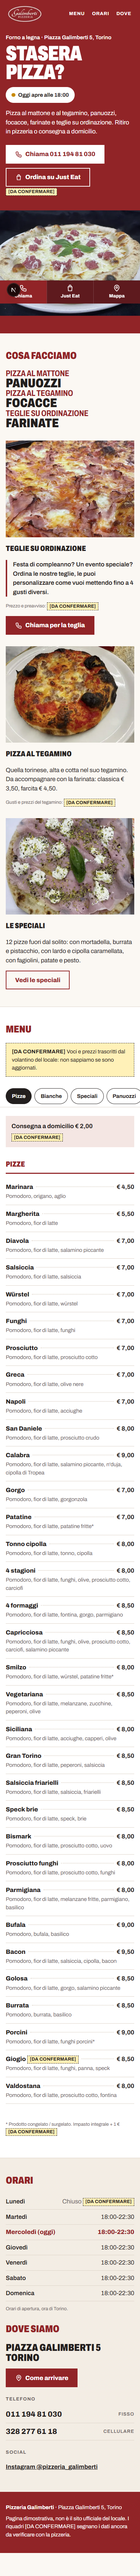
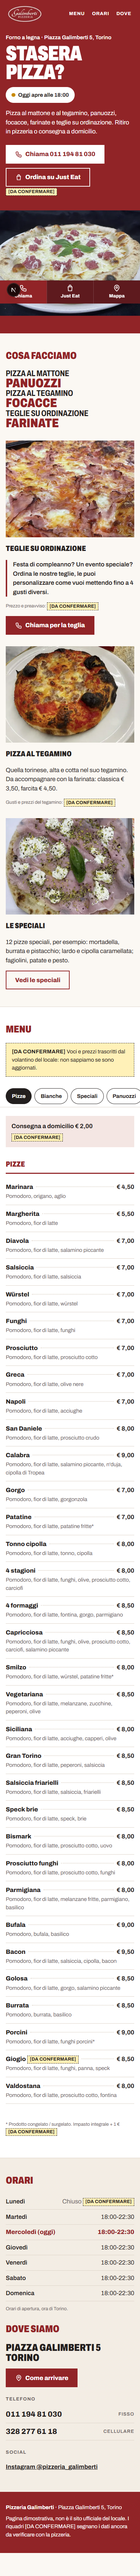
Verifica e consegna: correzioni, README, DECISIONI, RAPPORTO, VERIFICA
- Gerarchia dell'elenco del volantino, testo 'Le speciali', pagina 404 in italiano
- Credenziali Upstash anche con prefisso del marketplace
- Hosting e costi verificati sulla documentazione corrente (Vercel, Upstash, Cloudflare)

Changed region(s): [[0.0308, 0.1245, 0.4615, 0.1868], [0.2154, 0.3425, 0.4615, 0.3736]]

diff --git a/lib/store.ts b/lib/store.ts
@@ -47,7 +47,18 @@ function credenzialiRedis() {
   const env = process.env;
   const url = env.KV_REST_API_URL || env.UPSTASH_REDIS_REST_URL;
   const token = env.KV_REST_API_TOKEN || env.UPSTASH_REDIS_REST_TOKEN;
-  return url && token ? { url, token } : null;
+  if (url && token) return { url, token };
+
+  // Con più database sullo stesso account il marketplace mette davanti il
+  // nome dello store (NOME_KV_REST_API_URL): si cercano per come finiscono.
+  // "KV_REST_API_READ_ONLY_TOKEN" non finisce per "KV_REST_API_TOKEN".
+  const cerca = (finali: string[]) =>
+    Object.entries(env).find(([k, v]) => v && finali.some((f) => k.endsWith(f)))?.[1];
+  const altroUrl = cerca(["KV_REST_API_URL", "REDIS_REST_URL"]);
+  const altroToken = cerca(["KV_REST_API_TOKEN", "REDIS_REST_TOKEN"]);
+  return altroUrl?.startsWith("https://") && altroToken
+    ? { url: altroUrl, token: altroToken }
+    : null;
 }
 
 function driverRedis(credenziali: { url: string; token: string }): Driver {

diff --git a/app/page.tsx b/app/page.tsx
@@ -210,9 +210,9 @@ export default async function Home() {
                 />
                 <h3>Le speciali</h3>
                 <p>
-                  {speciali ? `${speciali.voci.length} pizze` : "Pizze"} fuori dal solito: con
-                  mortadella, burrata e pistacchio, con lardo e cipolla caramellata, con
-                  fagiolini, patate e pesto.
+                  {speciali ? `${speciali.voci.length} pizze` : "Pizze"} speciali, per esempio:
+                  mortadella, burrata e pistacchio; lardo e cipolla caramellata; fagiolini,
+                  patate e pesto.
                 </p>
                 <p>
                   <a className="bottone bottone-chiaro" href="#cat-speciali">

diff --git a/app/globals.css b/app/globals.css
@@ -363,11 +363,13 @@ a {
 .elenco-volantino li {
   font-size: clamp(1.75rem, 9vw, 3.5rem);
   font-weight: 900;
+  color: var(--rosso);
 }
+/* Come nel volantino: righe sottili e righe piene alternate. */
 .elenco-volantino li:nth-child(odd) {
   font-size: clamp(1.25rem, 6vw, 2.25rem);
   font-weight: 700;
-  color: var(--rosso);
+  color: var(--inchiostro);
 }
 
 .schede {

diff --git a/app/not-found.tsx b/app/not-found.tsx
@@ -1,0 +1,12 @@
+export default function NonTrovata() {
+  return (
+    <main className="contenitore sezione">
+      <h1 className="titolo-sezione">Pagina non trovata</h1>
+      <p>
+        <a className="bottone bottone-rosso" href="/">
+          Torna alla pizzeria
+        </a>
+      </p>
+    </main>
+  );
+}

diff --git a/RAPPORTO.md b/RAPPORTO.md
@@ -1,0 +1,98 @@
+# RAPPORTO – Pizzeria Galimberti (28/10/2026)
+
+## Cosa è pronto
+- **Sito pubblico** (Next.js), provato in locale a 390, 768 e 1280 px: stato "aperto adesso",
+  Chiama / Just Eat / Mappa a un tocco, menu completo dal volantino con schede, orari, dove
+  siamo. Commit: `Sito pubblico Next.js…`.
+- **Admin `/admin`** per il titolare, pensata per il telefono: avviso in cima, orari, ferie e
+  chiusure, consegna sì/no, voci e prezzi del menu, registro con Annulla. Nessun dato personale.
+  Commit separato: `Admin del titolare…`. Provata end-to-end in locale (`docs/VERIFICA.md`).
+- **Sicurezza:** in produzione build e avvio si fermano se `ADMIN_PASSWORD` è vuota, è il valore
+  di `.env.example` o è sotto 10 caratteri. Nessuna password nel repo (`.env.local` è ignorato).
+- **Database:** se non è collegato o non risponde, il sito mostra i dati iniziali (solo note +
+  volantino, con i [DA CONFERMARE]) e l'admin mostra un riquadro rosso e blocca i salvataggi.
+- **Demo:** noindex in meta e intestazione HTTP, `robots.txt` chiuso, nessuna sitemap. Niente
+  pubblicato, nessun push, nessun account creato, nessuna spesa.
+- **Flow:** clonato in sola lettura in `../flow-running-club` (fuori da questo repo). Ripresi solo
+  auth, store con fallback, Zod, server action e registro con Annulla.
+
+## Cosa controllare per primo
+1. Il menu e i prezzi col titolare: è tutto [DA CONFERMARE] (volantino di data ignota).
+2. Il link Just Eat: l'ho trovato in rete, non era nelle note.
+3. Lunedì chiuso (dedotto), quale numero sul bottone "Chiama" (ho messo il fisso).
+4. Il permesso per foto e logo, e il logo in alta risoluzione (quello dato è 134×68 px, sgranato).
+5. La frase mia sul tegamino ("Quella torinese, alta e cotta nel suo tegamino"): da far leggere.
+
+## Cosa non si sa
+Zona e minimo di consegna, prezzi di teglie e tegamino, se c'è WhatsApp, se si mangia sul posto,
+se Glovo/Satispay/Facebook (nel volantino) sono ancora attivi: nel sito non li ho messi. Le
+recensioni online sono contraddittorie (Restaurant Guru dà 4,7 e 2,4 in due risultati, e il
+locale aperto anche il lunedì): non usate. Attenzione all'omonimo **Cammafà, Piazza Galimberti
+23**: è un'altra pizzeria.
+
+## Hosting: dove, cosa cambia, quanto costa
+**Dove:** Vercel (piano **Pro**) + Upstash Redis (piano gratuito) collegato dal Marketplace di
+Vercel. È la stessa architettura di Flow, quindi nessuna modifica al codice.
+
+**Il piano gratuito Hobby di Vercel non è ammesso** per un sito di un cliente: è "restricted to
+non-commercial personal use only", e tra gli esempi di uso commerciale ci sono pubblicizzare la
+vendita di un prodotto e ricevere un pagamento per creare o ospitare il sito
+([Vercel, Fair use guidelines](https://vercel.com/docs/limits/fair-use-guidelines)).
+
+**Cosa cambia rispetto agli altri siti vetrina** (HTML statico): serve un server (non basta
+GitHub Pages), variabili d'ambiente segrete, un database, la gestione della password del
+titolare, aggiornamenti di sicurezza di Next.js nel tempo, e un costo mensile che non è zero.
+
+**Costi verificati il 28/10/2026:**
+| Voce | Costo | Fonte |
+|---|---|---|
+| Vercel Pro | $20/mese per seat sviluppatore, con $20 di credito d'uso incluso; oltre, a consumo | [vercel.com/pricing](https://vercel.com/pricing) |
+| Upstash Redis Free | $0: 500.000 comandi/mese, 256 MB, 1 database. Un sito così ne usa poche migliaia | [upstash.com/pricing/redis](https://upstash.com/pricing/redis) |
+| Upstash, se si supera | $0,20 ogni 100.000 comandi | idem |
+| Dominio (.it o .com) | **Non verificato**, da controllare | – |
+
+Note: Upstash archivia i database gratuiti dopo almeno 14 giorni di inattività, con backup e
+email di avviso prima ([Upstash FAQ](https://upstash.com/docs/redis/help/faq)); in quel caso il
+sito mostra i dati iniziali e l'admin lo segnala. La pagina prezzi di Upstash non dice se il
+piano gratuito ammette uso commerciale: da leggere nei termini prima di andare online.
+Suppongo (non verificato) che un solo account Vercel Pro possa ospitare anche gli altri siti
+dei tuoi clienti, dividendo i $20 al mese.
+
+**Alternativa più economica, non provata:** Cloudflare Workers con l'adattatore OpenNext, che
+dichiara supporto a Next.js 16 ([opennext.js.org/cloudflare](https://opennext.js.org/cloudflare)).
+Workers Paid costa $5/mese ([Cloudflare](https://developers.cloudflare.com/workers/platform/pricing/));
+il piano Free ha 10 ms di CPU per richiesta e 3 MiB di bundle, probabilmente stretti per
+Next.js. Richiede di adattare la build e di riprovare tutto: non l'ho fatto.
+
+## Cosa devi fare tu a mano per metterla online
+1. Avere l'ok del titolare (incarico, uso di foto e logo) e fargli confermare i [DA CONFERMARE].
+2. Creare il repository GitHub (privato) e fare il push: io non ho pushato.
+3. Account Vercel → piano Pro → "Add New Project" → importare il repository.
+4. Nel progetto Vercel: Marketplace → Upstash Redis → creare il database e collegarlo
+   (imposta da solo `KV_REST_API_URL` e `KV_REST_API_TOKEN`).
+5. Settings → Environment Variables (Production): `ADMIN_PASSWORD` (almeno 10 caratteri, non
+   quella di esempio) e `AUTH_SECRET` (`openssl rand -base64 32`). **Prima** del primo deploy,
+   altrimenti la build si ferma apposta.
+6. Deploy, poi aprire `/admin`: il riquadro in alto deve dire "Database collegato".
+7. Dare la password al titolare di persona (non per messaggio), salvarla sul suo telefono,
+   mostrargli come cambiare un orario e come si usa Annulla.
+8. Dominio: comprarlo e collegarlo in Vercel → Domains.
+9. Solo quando il cliente dice di sì: togliere il noindex dal sito pubblico (`app/robots.txt`,
+   `robots` in `app/layout.tsx`, intestazione `X-Robots-Tag` in `next.config.ts` da limitare
+   a `/admin`). L'admin deve restare noindex (`app/admin/layout.tsx`).
+
+**Mantenimento:** circa $20/mese di Vercel Pro (divisibili tra più clienti, da verificare) + $0
+di Upstash + il dominio all'anno. Ogni tanto: aggiornare Next.js (`npm update`), controllare
+che il database non sia stato archiviato, rinnovare il dominio.
+
+## Che vantaggi dà un sito a una pizzeria che vive di telefono e Just Eat
+- **Osservato:** le schede in rete dicono cose sbagliate (Restaurant Guru lo dà aperto il lunedì): un sito suo, che il titolare aggiorna dal telefono con orari, ferie e avvisi, diventa la fonte giusta ([Restaurant Guru](https://restaurantguru.com/Pizzeria-Galimberti-Turin), `menu2.png`).
+- **Osservato, da verificare:** secondo i risultati di ricerca su Just Eat la Margherita costa € 7,00 contro € 5,50 del volantino (pagina Just Eat non leggibile): il sito mostra il suo listino e porta alla chiamata diretta.
+- **Osservato:** tra le pizzerie torinesi al tegamino che ho cercato non ho trovato siti ufficiali, solo schede di guide ([Dissapore](https://www.dissapore.com/pizzerie/torino-le-12-migliori-pizze-al-padellino/)): avere menu e orari chiari da telefono lo distingue.
+- **Supposto:** più ordini al telefono invece che in app riducono le commissioni; non so quanto paga oggi a Just Eat.
+- **Supposto:** menu e prezzi leggibili in due tocchi tolgono telefonate del tipo "cosa avete, quanto costa?".
+
+## Limite di questo lavoro
+L'IA conosce gli schemi che funzionano, ma non misura la clientela reale di questo locale. Il
+risultato va fatto vedere a 2-3 persone vere (e al titolare) prima di considerarlo giusto.
+Il contatto con il titolare e la proposta commerciale restano a te.

diff --git a/README.md b/README.md
@@ -1,31 +1,61 @@
-# template-vetrina
+# Pizzeria Galimberti – sito demo con admin
 
-Punto di partenza per i siti vetrina one-page dei clienti. Contiene solo le regole
-(`CLAUDE.md`): il sito lo costruisce Claude Code.
+Sito one-page per Pizzeria Galimberti, Piazza Galimberti 5, Torino, con un'area `/admin` per il
+titolare. **Demo:** non indicizzato (meta noindex, `X-Robots-Tag`, `robots.txt` chiuso, niente
+sitemap), non pubblicato.
 
-## Nuovo cliente
+Progetto Next.js 16 (deroga alla pipeline, vedi `DECISIONI.md`). Da leggere, in ordine:
+`RAPPORTO.md`, `docs/anteprime/`, `docs/VERIFICA.md`, `STUDIO.md`, `DECISIONI.md`.
 
-1. Su GitHub: **Use this template → Create a new repository**, proprietario
-   `siti-web-torino`, nome del cliente in minuscolo con trattini (es. `quartin-torino`).
-   Poi clonalo sul tuo computer.
-2. Copia le foto del cliente (menu, logo, locale, slogan, cose divertenti) in
-   `img-originali/`.
-3. Apri un terminale nella cartella del progetto e lancia `claude` (modello più forte per
-   questa corsa: `/model`).
-4. Incolla il messaggio che ti prepara la chat di avvio, in questa forma:
+## Avviarlo in locale
+```bash
+npm install
+```
+Crea `.env.local` copiando `.env.example` e metti una password di prova (almeno 10 caratteri,
+diversa dall'esempio) e un `AUTH_SECRET` lungo. Poi:
+```bash
+npm run dev
+```
+Sito su http://localhost:3000, admin su http://localhost:3000/admin. Senza database le modifiche
+dell'admin finiscono in `.data/store.json` (ignorato da git).
 
-   ```
-   Nuovo cliente: [NOME], [VIA, QUARTIERE], Torino. Tipo: [pizzeria / bar / ...].
-   Note: [quello che sai]
-   Foto in img-originali/.
-   Preferenze mie, facoltative e non vincolanti: [...]
-   Segui CLAUDE.md. Lavora da solo fino alla fine.
-   ```
+## Come si cambiano i contenuti
+| Cosa | Dove |
+|---|---|
+| Orari, giorni di chiusura, ferie, avviso in cima, voci e prezzi del menu, consegna sì/no | Dall'admin (`/admin`), dal telefono. Ogni modifica va nel registro e si può annullare |
+| Telefoni, indirizzo, link Just Eat, Instagram, costo consegna, frasi del volantino, foto | `lib/sito.ts` (un solo file, ogni valore con la sua fonte) |
+| I dati di partenza (quelli mostrati se il database non risponde) | `lib/dati-iniziali.ts` |
+| Colori, font, spaziature | Variabili in cima a `app/globals.css` |
+| Testi delle sezioni | `app/page.tsx` |
 
-5. Al termine leggi, in questo ordine: `RAPPORTO.md`, gli screenshot in `docs/anteprime/`,
-   il menu trascritto in `STUDIO.md` e `DECISIONI.md`.
+Per togliere un [DA CONFERMARE] da un dato fisso: in `lib/sito.ts` metti `daConfermare: false`.
+Per il menu e gli orari lo fa il titolare dall'admin: salvare gli orari li conferma, salvare una
+voce la conferma, "Il menu è giusto" conferma tutto il menu.
 
-## Perché CLAUDE.md non cambia da solo
-È un normale file di testo. Cambia solo se lo modifichi tu o se chiedi a Claude di farlo
-("aggiungi questa regola al CLAUDE.md"). Ogni nuovo cliente riceve una copia al momento
-della creazione dal template: migliorare il template non cambia i siti già fatti.
+## Elenco dei [DA CONFERMARE]
+| Dato | Perché | Fonte |
+|---|---|---|
+| Tutto il menu (voci e prezzi) | Trascritto dal volantino, data ignota | `menu1.png`, `menu2.png` |
+| Giogio, Porrosa (nomi) | Letti con dubbio | `menu1.png` |
+| La Mortadella | Nel volantino c'è "mortella", corretto in "mortadella" | `menu1.png` |
+| Coca Cola bottiglia, birre | Formato e un numero dopo "33cl" non chiari; Moretti 66 cl a € 2,50 sembra basso | `menu2.png` |
+| Nota "* prodotto congelato / surgelato, impasto integrale + 1 €" | Scritta minuscola | `menu1.png` |
+| Lunedì chiuso | Dedotto da "martedì-domenica" | note, `menu2.png` |
+| Link Just Eat | Le note lo lasciano vuoto; trovato in rete con lo stesso indirizzo | ricerca web |
+| Consegna € 2,00 | Dal volantino, data ignota; zona e ordine minimo non noti | `menu2.png` |
+| Teglie su ordinazione: prezzo e preavviso | Non sono nel volantino | – |
+| Pizza al tegamino: gusti e prezzi | Il volantino la nomina ma non la elenca | `menu2.png` |
+| Quale numero mettere sul bottone "Chiama" | Messo il fisso (primo nel volantino) | `menu2.png` |
+| Glovo, Satispay, Facebook | Nel volantino ma non nelle note: **non mostrati** nel sito | `menu2.png` |
+| WhatsApp sul 328 | Non so se c'è: **non mostrato** | – |
+| Logo in alta risoluzione | Quello dato è 134×68 px | `logo.png` |
+
+## Struttura
+```
+app/            pagina (page.tsx), stile (globals.css), font, robots.txt, admin/
+components/     stato aperto/chiuso, schede del menu, icone, riquadro [DA CONFERMARE]
+lib/            sito.ts (dati fissi), dati-iniziali.ts, schema.ts (Zod), store.ts (database),
+                auth.ts, apertura.ts (aperto adesso), registro.ts
+public/img/     foto WebP ottimizzate (originali intatti in img-originali/)
+docs/           anteprime e verifica
+```

diff --git a/docs/VERIFICA.md b/docs/VERIFICA.md
@@ -1,0 +1,64 @@
+# Verifica – 28/10/2026
+
+Screenshot in `docs/anteprime/` (390, 768, 1280 px; prima schermata e pagina intera; admin a 390).
+Controlli automatici con Playwright + Edge (`strumenti/`, fuori da git): nessun errore in console,
+nessun file 404 (a parte la pagina 404 voluta), nessuno scorrimento orizzontale a nessuna
+larghezza, nessun link o bottone sotto i 44 px, tutte le immagini con testo alternativo.
+
+## Test dei 5 secondi (390 px, `home-390-prima-schermata.png`)
+Si vede: logo, "Forno a legna · Piazza Galimberti 5, Torino", "STASERA PIZZA?", stato
+("Oggi apre alle 18:00" / "Aperto adesso, fino alle 22:30"), cosa fanno, "Chiama", "Ordina su
+Just Eat" e la barra fissa Chiama · Just Eat · Mappa. Un estraneo capisce che è una pizzeria
+d'asporto, dove sta e cosa fare. Debole: la parola "pizzeria" in chiaro c'è solo nel logo
+piccolo (134 px di larghezza originale).
+
+## Scenario: venerdì sera, telefono, per strada
+- È aperto? 0 tocchi: lo stato è nella prima schermata, calcolato sull'ora di Torino.
+- Dov'è? 1 tocco ("Mappa" nella barra) apre Google Maps.
+- Cosa mangio e quanto costa? 2 tocchi: "Menu" in testata → scheda della categoria.
+  Da telefono si vede una categoria alla volta (prima il menu era lungo 11 schermate).
+- Ordino? 1 tocco: "Chiama" o "Just Eat".
+
+## Difetti trovati e cosa è stato fatto
+| Dove | Larghezza | Difetto | Perché conta | Esito |
+|---|---|---|---|---|
+| Menu | 390 | 90 voci di fila: pagina alta 11.000 px, orari raggiungibili solo scorrendo a lungo | Chi cerca gli orari dopo il menu si perde | Corretto: schede, una categoria alla volta da telefono |
+| Schede "Cosa facciamo" | 1280 | 3 schede in griglia a 2 colonne: la terza restava sola con mezzo schermo vuoto | Sembra un errore | Corretto: 3 colonne da 768 px |
+| Elenco del volantino | 1280 | Il titolo "Cosa facciamo" e la prima riga avevano stesso colore e stile | Gerarchia confusa | Corretto: righe sottili in nero, piene in rosso |
+| Orari | tutte | "Mercoledì (Oggi)" con la O maiuscola | Dettaglio sciatto | Corretto |
+| Instagram | 390 | Link di testo alto meno di 44 px | Difficile da toccare | Corretto |
+| Testo "Le speciali" | tutte | "12 pizze fuori dal solito" | Frase da brochure | Ora: "12 pizze speciali, per esempio: …" |
+| Pagina 404 | tutte | Testo di Next in inglese | Fuori lingua | Corretto |
+| Prima schermata | 768 | La foto della pizza è piccola e ritagliata in verticale, il cornicione si perde | Estetica, non uso | **Non corretto**, da rivedere con foto migliori |
+| Elenco del volantino | 1280 | Colonna stretta a sinistra, due terzi vuoti a destra | Spazio sprecato | **Non corretto**: voluto come eco del volantino, discutibile |
+| Logo | tutte | Il file è 134×68 px: a 2x (telefoni) è sfocato | Prima cosa che si vede | **Non correggibile** senza il file originale: va chiesto al locale |
+| Bibite | 390 | Cinque [DA CONFERMARE] di fila rendono la lista pesante | Ma sono dubbi veri sul volantino | Lasciato: si tolgono quando il titolare conferma |
+
+## Testi
+- "Quella torinese, alta e cotta nel suo tegamino." (scheda tegamino) è una mia frase, non del
+  locale: descrive la foto (`tegamino.png`) e il tipo di pizza. Da far leggere al titolare.
+- "Pizza al mattone e al tegamino, panuozzi, focacce, farinate e teglie su ordinazione" riprende
+  l'elenco del volantino (`menu2.png`). "Stasera pizza?" e la frase sulle teglie sono copiate
+  dal volantino, senza modifiche.
+- Nessuna recensione, storia, nome o data: nel materiale non ci sono.
+
+## Tastiera e accessibilità
+- Tab: "Vai al menu" (link per saltare) → logo → Menu, Orari, Dove → Chiama → Just Eat → …
+  Il focus è un bordo scuro con alone bianco (`focus-chiama` verificato a 390 px), visibile
+  anche sul rosso.
+- Contrasti: bianco su `#912427` circa 8:1; grigio `#6b625e` su carta/bianco oltre 5:1.
+- `prefers-reduced-motion`: scorrimento morbido e transizioni disattivati.
+- Lo stato "aperto adesso" è annunciato (`aria-live="polite"`).
+
+## Identità
+Usa il logo così com'è, il rosso campionato dal logo, i titoli maiuscoli pesanti e le frasi
+del volantino. Sembra il volantino del locale messo sul telefono, non un template. Il limite
+vero sono le foto: quattro piatti fotografati col telefono, nessuna del locale.
+
+## Admin (verificata in locale, `strumenti/prova-admin.js`)
+Login con password sbagliata rifiutato; prezzo non valido rifiutato con messaggio; cambio
+prezzo, avviso, consegna sì/no e ferie visibili subito sul sito; quattro "Annulla" di fila
+riportano tutto com'era. In produzione: senza database o con database irraggiungibile il sito
+mostra i dati iniziali e l'admin mostra un riquadro rosso e blocca i salvataggi
+(`admin-390-database-non-collegato.png`). Con `ADMIN_PASSWORD` vuota o d'esempio la build e
+`next start` si fermano con un messaggio.

diff --git a/DECISIONI.md b/DECISIONI.md
@@ -86,3 +86,28 @@ già nel volantino (`menu1.png` usa linee sotto ogni voce).
 | Il refuso "mortella" della pizza La Mortadella è mostrato come "mortadella" con [DA CONFERMARE] | Il nome della pizza rende evidente il refuso, ma è comunque una correzione mia |
 | Bottone principale "Chiama" sul 328 o sullo 011? Sul fisso 011 come primo, mobile come secondo | Il volantino mette lo 011 per primo (`menu2.png`); non so quale preferiscano: [DA CONFERMARE] |
 | Stato "Aperto adesso / Apre alle 18:00 / Chiuso oggi" calcolato sull'ora di Torino | Criterio 1 e 4. Se il titolare imposta ferie dall'admin, il sito dice "Chiuso per ferie fino al …" |
+
+## 4. Scelte tecniche
+| Scelta | Motivo |
+|---|---|
+| Next.js 16.4.3, CSS puro con variabili (niente Tailwind) | Serve un backend per l'admin (deroga). Il CSS a variabili rispetta "scale come variabili CSS" e resta leggibile |
+| Foto pre-ottimizzate in WebP (sharp, lato lungo ≤ 1600, senza EXIF) e servite come `<img>`, non con `next/image` | Nessun costo di ottimizzazione immagini sull'hosting, file già piccoli (40-85 KB) |
+| Home statica rigenerata (ISR): al salvataggio dall'admin (`revalidatePath`) e comunque ogni 5 minuti | Veloce, poche letture dal database (che resta nel piano gratuito), e il sito sta su anche se il database cade |
+| Stato "aperto adesso" calcolato nel browser sull'ora di Torino | La pagina è in cache: uno stato calcolato sul server potrebbe essere vecchio proprio alle 18:00 |
+| Menu a schede da telefono, tutto in colonne da tablet | Da telefono il menu completo era lungo 11 schermate (`docs/VERIFICA.md`) |
+| Foto di apertura `pizza.png` (non `teglia.png`) | Il cornicione maculato dice "forno caldo" a colpo d'occhio; la teglia va nella sezione teglie, dove spiega il prodotto |
+| `menu2.png` mai pubblicata, `tegamino.png` ritagliata sotto il volantino | Contengono foto di persone riconoscibili |
+| Store: Upstash Redis → file locale **solo** in sviluppo (o con `STORE_FILE=1`) → dati iniziali | In produzione senza database non si finge di salvare. L'admin lo dice con un riquadro rosso e blocca i campi; le action rifiutano comunque |
+| Lettura dal database con timeout di 2,5 s | Se Upstash è lento il sito non aspetta: mostra i dati iniziali |
+| Ogni sezione dei dati validata da sola con Zod | Una sezione rovinata non fa sparire le altre |
+| Salvataggio rifiutato se il database non si legge | Scrivere partendo dai dati iniziali cancellerebbe le altre modifiche del titolare |
+| Registro senza nome di chi modifica (Flow lo aveva) | L'admin è del solo titolare e non si salvano dati personali |
+| Password: blocco in `next.config.ts` (build e `next start`) e in `instrumentation.ts` (avvio su Vercel); oltre a vuota e d'esempio rifiuto anche sotto 10 caratteri e `AUTH_SECRET` sotto 32 | Su Vercel `next.config` gira solo in build: serve anche il controllo a runtime. La lunghezza minima è un'aggiunta mia, prudente |
+| Da Flow non ripresi: robots.ts (apriva ai crawler), sitemap, llms.txt, dati strutturati, contatori, meteo, calendario, design | Richiesta esplicita dell'utente |
+
+## 5. Hosting (dettagli e costi in RAPPORTO.md)
+Consiglio **Vercel Pro + Upstash Redis gratuito**. Il piano Hobby di Vercel non si può usare: la
+documentazione lo limita a uso personale non commerciale, e un sito che promuove un'attività
+(o che si viene pagati per fare o ospitare) è commerciale
+([Vercel, Fair use guidelines](https://vercel.com/docs/limits/fair-use-guidelines), aggiornata
+14/09/2026). Alternativa più economica non provata: Cloudflare Workers con l'adattatore OpenNext.
